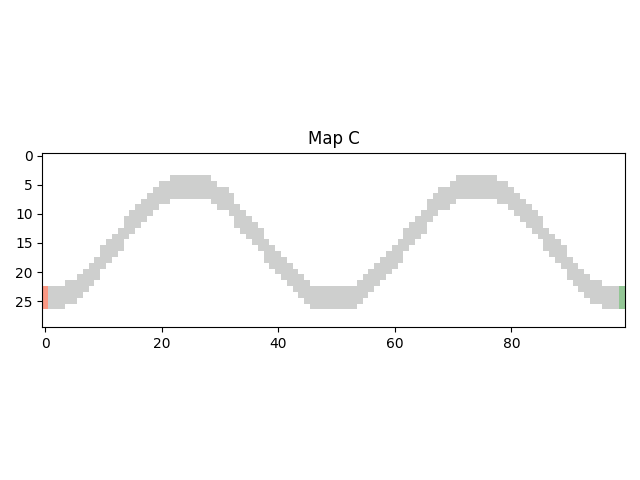
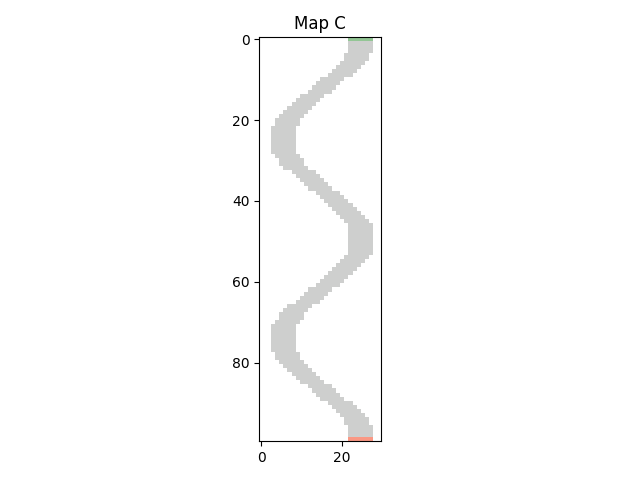
turn map c by 90 degrees so it is bottom to top

diff --git a/Exercise3/maps/map_c/map_c.py b/Exercise3/maps/map_c/map_c.py
@@ -8,25 +8,25 @@ START = 2
 FINISH = 3
  
 # Define an array of 30 rows and 60 columns for a wide racetrack
-track = np.full((30, 100), WALL)
+track = np.full((100, 30), WALL)
 
 # Define the cosine curve track
 x = np.linspace(0, 4 * np.pi, 100)  # x values from 0 to 4*pi
 y = (np.cos(x) * 10 + 15).astype(int)  # map cosine values to rows 0 to 29
 
 for i in range(98):
-    track[y[i+1] - 1:y[i+1] + 3, i+1] = TRACK  # make the track wider
+    track[i+1, y[i+1] - 2:y[i+1] + 4] = TRACK  # make the track wider
 
 # Define starting line
-track[23:27, 0] = START
+track[99, 22:28] = START
 
 # Define finishing line
-track[23:27, 99] = FINISH
+track[0, 22:28] = FINISH
 
 print(track)
 
 # Save track in npy format
-with open('track_c.npy', 'wb') as f:
+with open('./saved_tracks/track_c.npy', 'wb') as f:
     np.save(f, track)
     
 # Personalized color map
